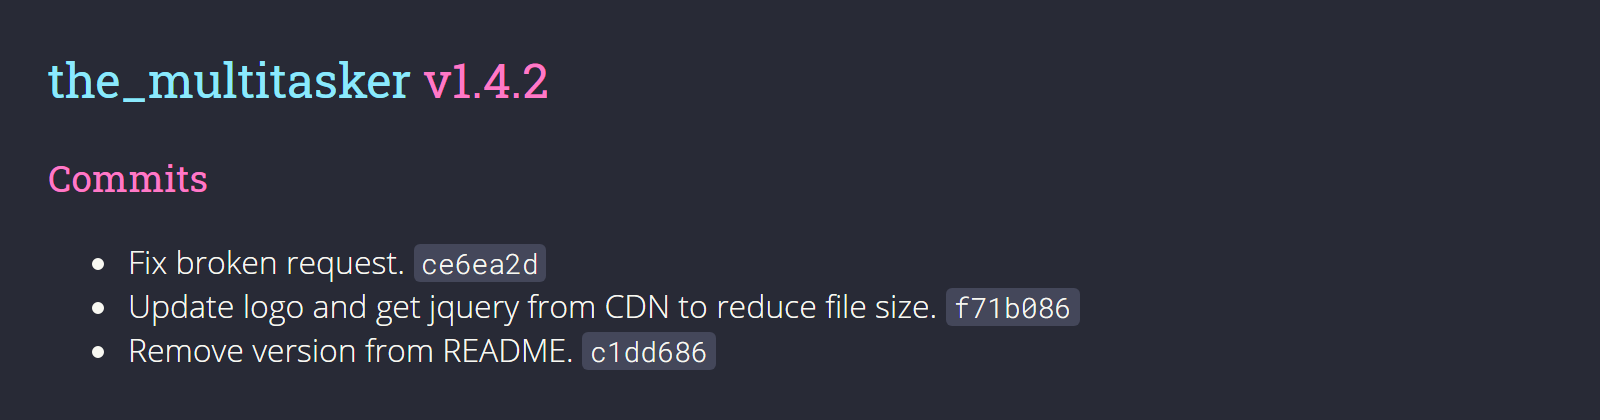
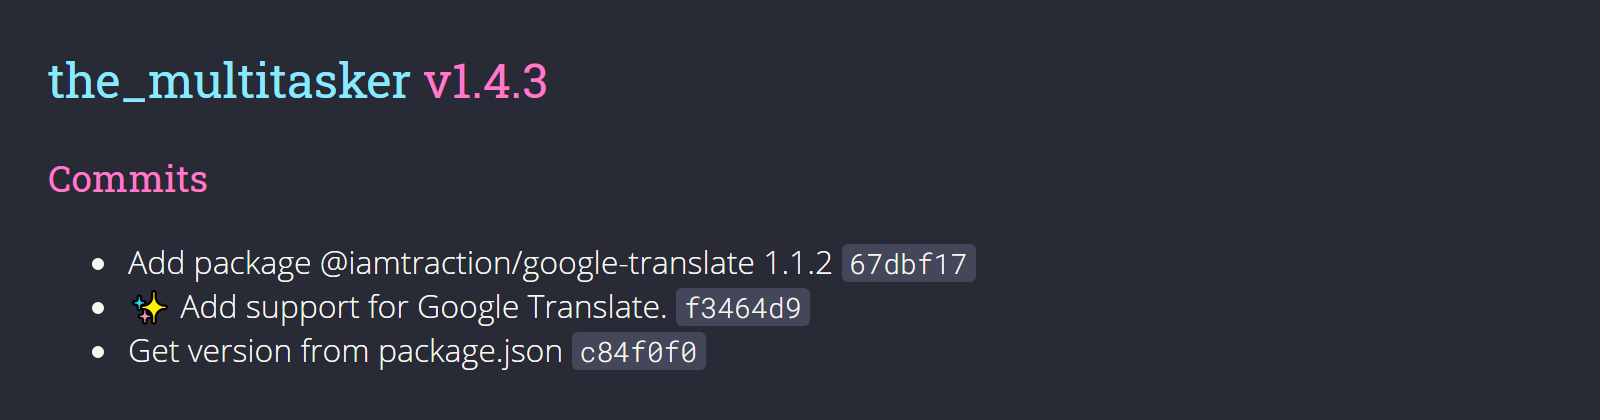
Release v1.4.3

Changed region(s): [[0.0625, 0.5571, 0.6875, 0.8667], [0.3125, 0.1857, 0.3438, 0.2476]]

diff --git a/CHANGELOG.md b/CHANGELOG.md
@@ -7,7 +7,18 @@ and this project adheres to [Semantic Versioning](https://semver.org/spec/v2.0.0
 
 Generated by [`auto-changelog`](https://github.com/CookPete/auto-changelog).
 
-## [v1.4.2](https://github.com/eyalmichon/TheMultitasker/compare/v1.4.1...v1.4.2)
+## [v1.4.3](https://github.com/eyalmichon/TheMultitasker/compare/v1.4.2...v1.4.3)
+
+
+
+
+### Commits
+
+- Add package @iamtraction/google-translate 1.1.2 [`67dbf17`](https://github.com/eyalmichon/TheMultitasker/commit/67dbf1782a792d324cbe1a1a451af2b0b99ca484)
+- ✨ Add support for Google Translate. [`f3464d9`](https://github.com/eyalmichon/TheMultitasker/commit/f3464d9d683ebaf9c51ad43378ab4abaa1124052)
+- Get version from package.json [`c84f0f0`](https://github.com/eyalmichon/TheMultitasker/commit/c84f0f013c419b688b737d0b7dbd61da803fe3fd)
+
+## [v1.4.2](https://github.com/eyalmichon/TheMultitasker/compare/v1.4.1...v1.4.2) - 2021-08-28
 
 
 
